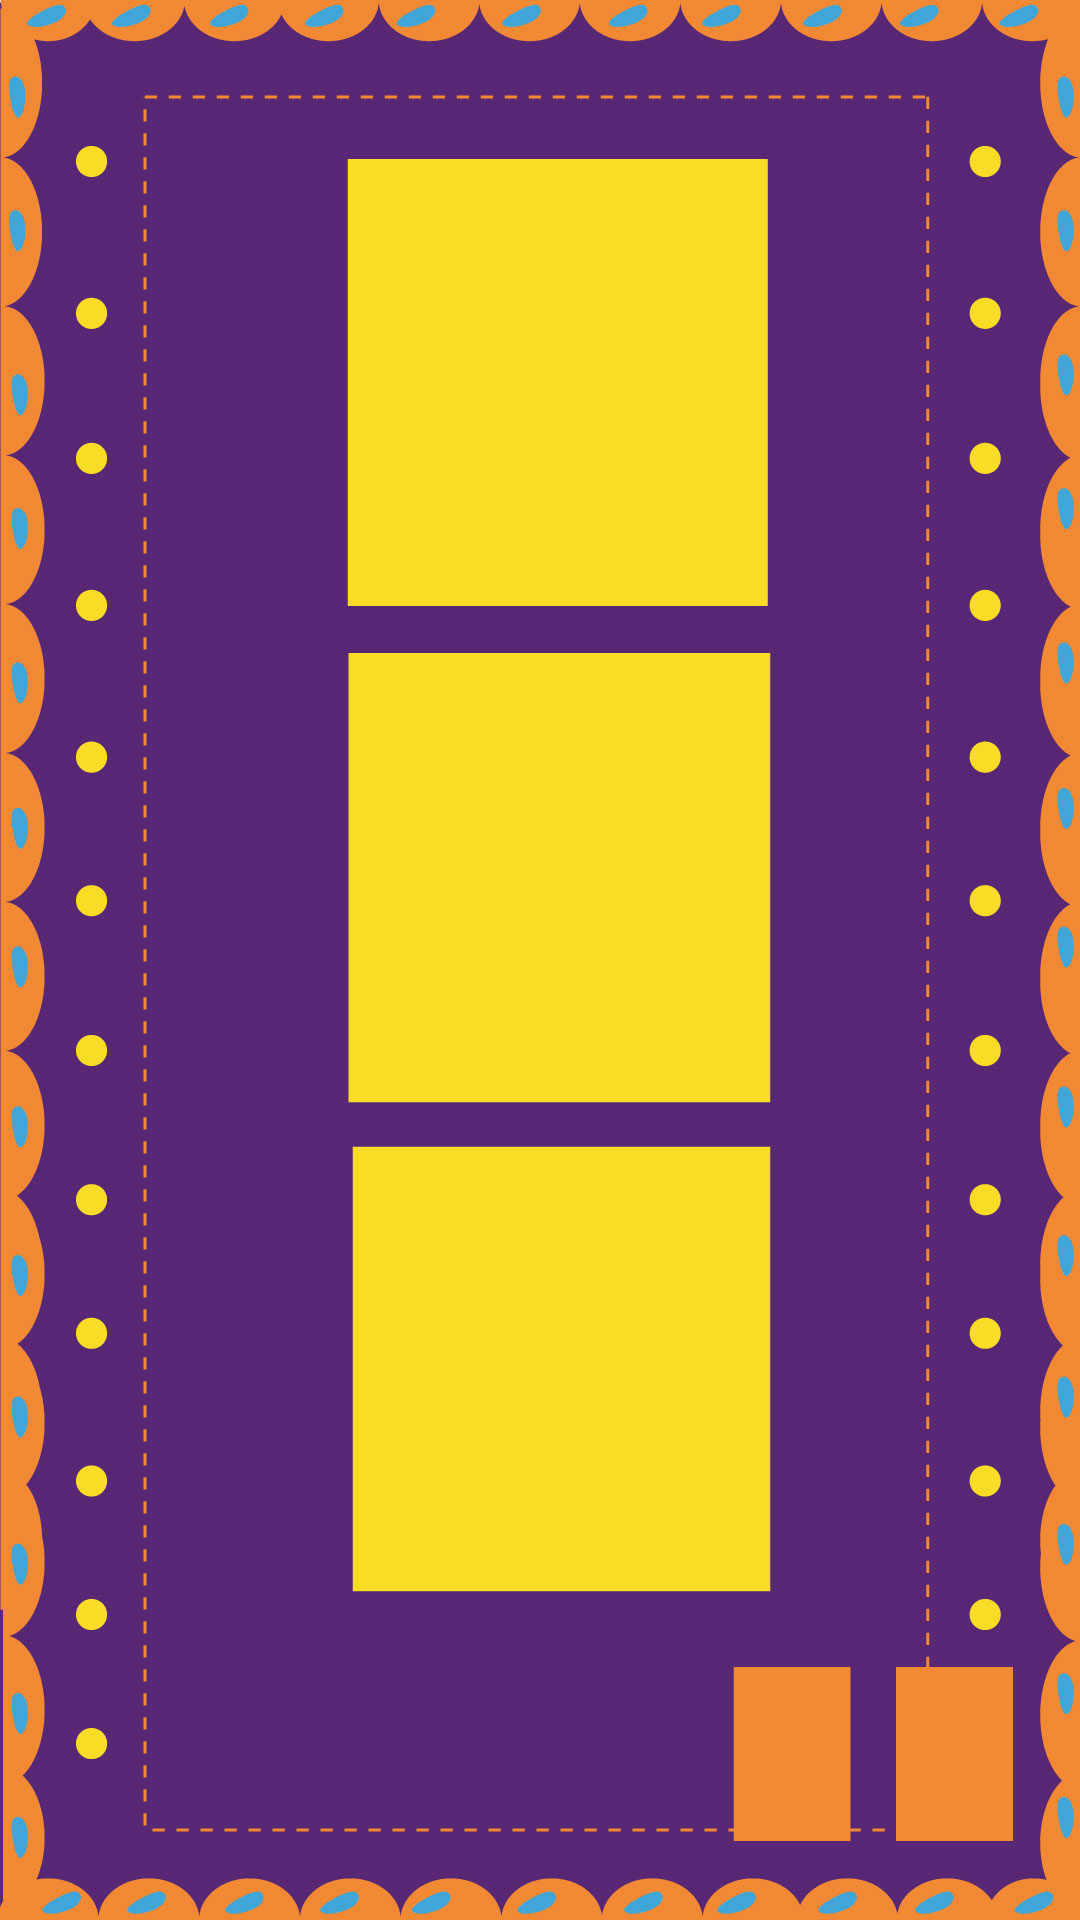
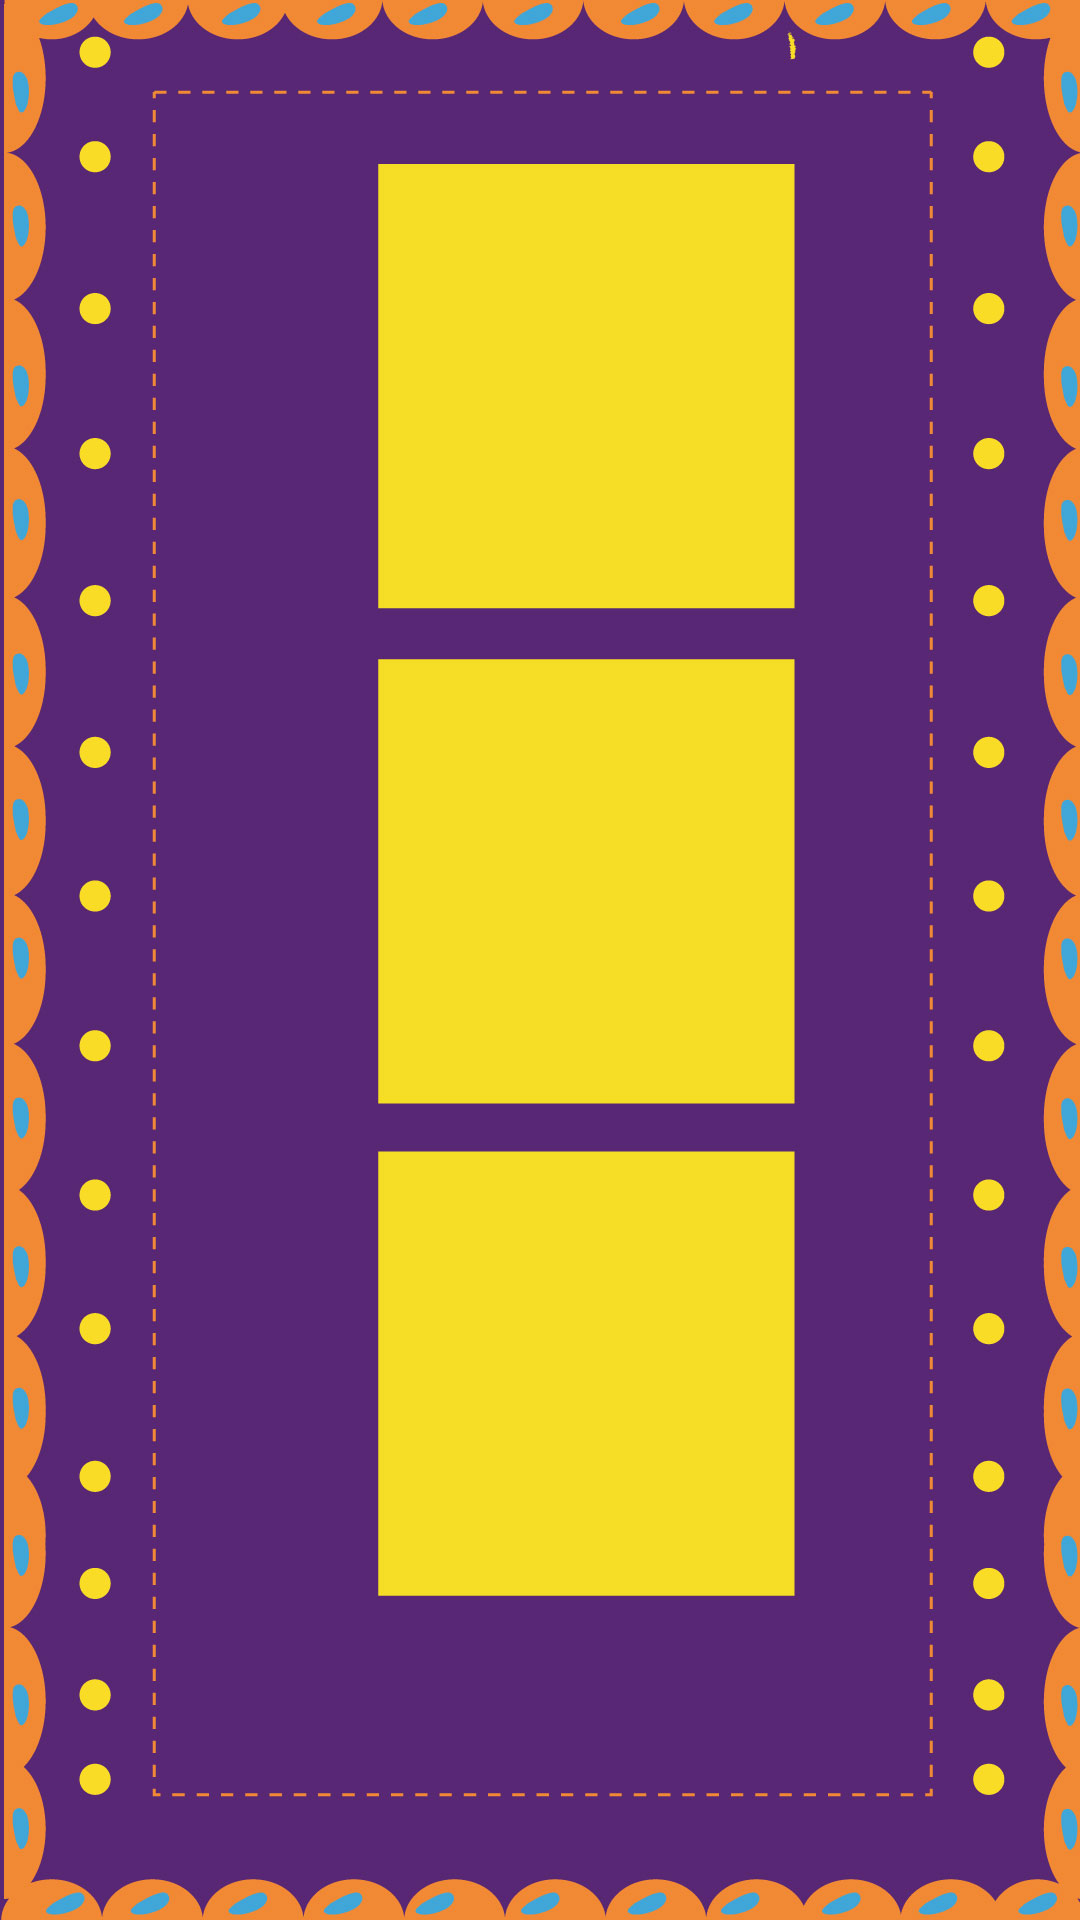
Nuevos fondos y sin botón play

diff --git a/index.html b/index.html
@@ -38,7 +38,6 @@
         </div>
         <img class="background" src="img/PANTALLA-SELECCION-TEMAS-EN-BLANCO.jpg" alt="">
         <div class="selection-buttons">
-            <input id="toCatrina" type="image" src="img/boton-play.jpg">
             <input class="second btnToMenu" type="image" src="img/boton-menu.jpg">
         </div>
     </section>
@@ -110,7 +109,6 @@
         </div>
         <img class="background" src="img/PANTALLA-SELECCION-CATRINA-EN-BLANCOS.jpg" alt="">
         <div class="selection-buttons">
-            <input id="play" type="image" src="img/boton-play.jpg">
             <input class="second btnToMenu" type="image" src="img/boton-menu.jpg">
         </div>
     </section>
@@ -125,15 +123,11 @@
         <input id="n" class="keyboard sexta n" type="image" src="img/TECLADO-N.jpg" alt="#" value="n"/>
         <input id="t" class="keyboard septima t" type="image" src="img/TECLADO-T.jpg" alt="#" value="t"/>
         <input id="e" class="keyboard octava e" type="image" src="img/TECLADO-E.jpg" alt="#" value="e"/>
-        <img class="background" src="img/PANTALLA-JUEGO-TEMA-ANIMALES--ELEFANTE--EN-BLANCOS.jpg" />
+        <img class="background" src="img/ELEFANTE.jpg" />
         
         <label id="temaSeleccionado" text=""></label>
 
         <div class="actionButtons">
-        
-            <a>
-                <input id="btnJugar" type="image" src="img/boton-play.jpg" alt="#" onclick="inicio()" />
-            </a>
             <a>
                 <input id="btnPausa" type="image" src="img/boton-pausa.jpg" alt="#" />
             </a>

diff --git a/css/custom.css b/css/custom.css
@@ -10,7 +10,7 @@
 #temaSeleccionado{
     font-family: 'Gobold Regular';
     position: fixed;
-    margin-top: 30%;
+    margin-top: 50%;
     margin-left: 28%;
     text-align: center;
     color:white;
@@ -158,7 +158,7 @@ input.puntuacion{
     margin-right: 3% !important;
 }
 
-#btnToMenu{
+.btnToMenu{
     float: right;
     margin-right: 21%;
 }
@@ -358,12 +358,12 @@ img.left-candle{
 }
 #btnPausa{
     position: fixed;
-    bottom:6% ;
+    bottom:4% ;
     left: 82%;
 }
 #btnMenu{
     position: fixed;
-    bottom:6% ;
+    bottom:4% ;
     left: 70%;
 }
 .keyboard{
@@ -408,36 +408,36 @@ img.left-candle{
 }
 #animal{
     position: fixed;
-    margin-top: 45%;
+    margin-top: 65%;
     left: 27%; 
     
 }
 #color{
     position: fixed;
-    margin-top: 71%;
+    margin-top: 92%;
     left: 27%;
 }
 #elemento{
     position: fixed;
-    margin-top: 97%;
+    margin-top: 120%;
     left: 27%;
 }
 
 #cara1{
     position: fixed;
-    margin-top: 15%;
-    left: 33%; 
+    margin-top: 14%;
+    left: 34%; 
     
 }
 #cara2{
     position: fixed;
-    margin-top: 59%;
-    left: 33%;
+    margin-top: 60%;
+    left: 34%;
 }
 #cara3{
     position: fixed;
     margin-top: 106%;
-    left: 33%;
+    left: 34%;
 }
 /* Juego */
 /* Catrina */

diff --git a/js/custom.js b/js/custom.js
@@ -35,10 +35,8 @@ function init() {
     btnCredits = document.getElementById('btnCreditos');
     credits = document.getElementById('credits');
     btnCatrinas = document.getElementById('btnCatrinas');
-    themeToCatrina = document.getElementById('toCatrina');
     game_screen = document.getElementById('game');
     gameToMenu = document.getElementById('gameToMenu');
-    btnPlay = document.getElementById('play');
     btnThemes = document.getElementById('btnTemas');
     btnInicio = document.getElementById('btnInicioJuego');
     catrinas_screen = document.getElementById('catrinas');
@@ -46,8 +44,6 @@ function init() {
     unloaded_candles = document.getElementById("unloaded");
     loaded_candles = document.getElementById("loaded");
     btnInstructions.addEventListener('click', toInstructions);
-    themeToCatrina.addEventListener('click', toCatrinas);
-    btnPlay.addEventListener('click', toGame);
     btnPuntuacion.addEventListener('click', toPuntuacion);
     btnInicio.addEventListener('click', toThemes);
     btnThemes.addEventListener('click', toThemes);
